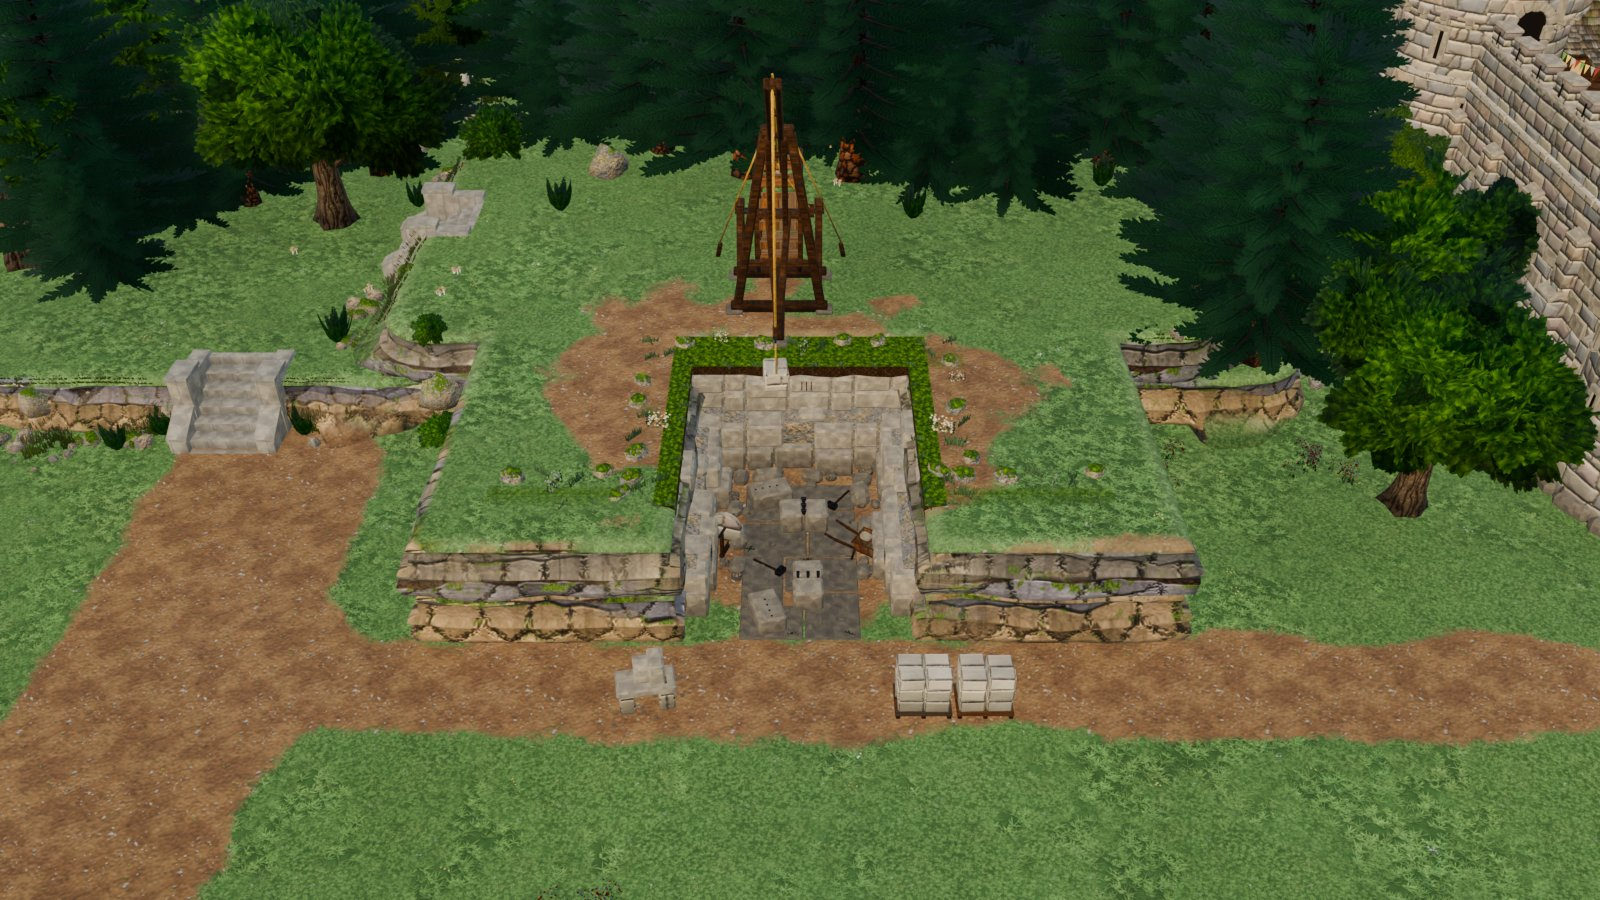
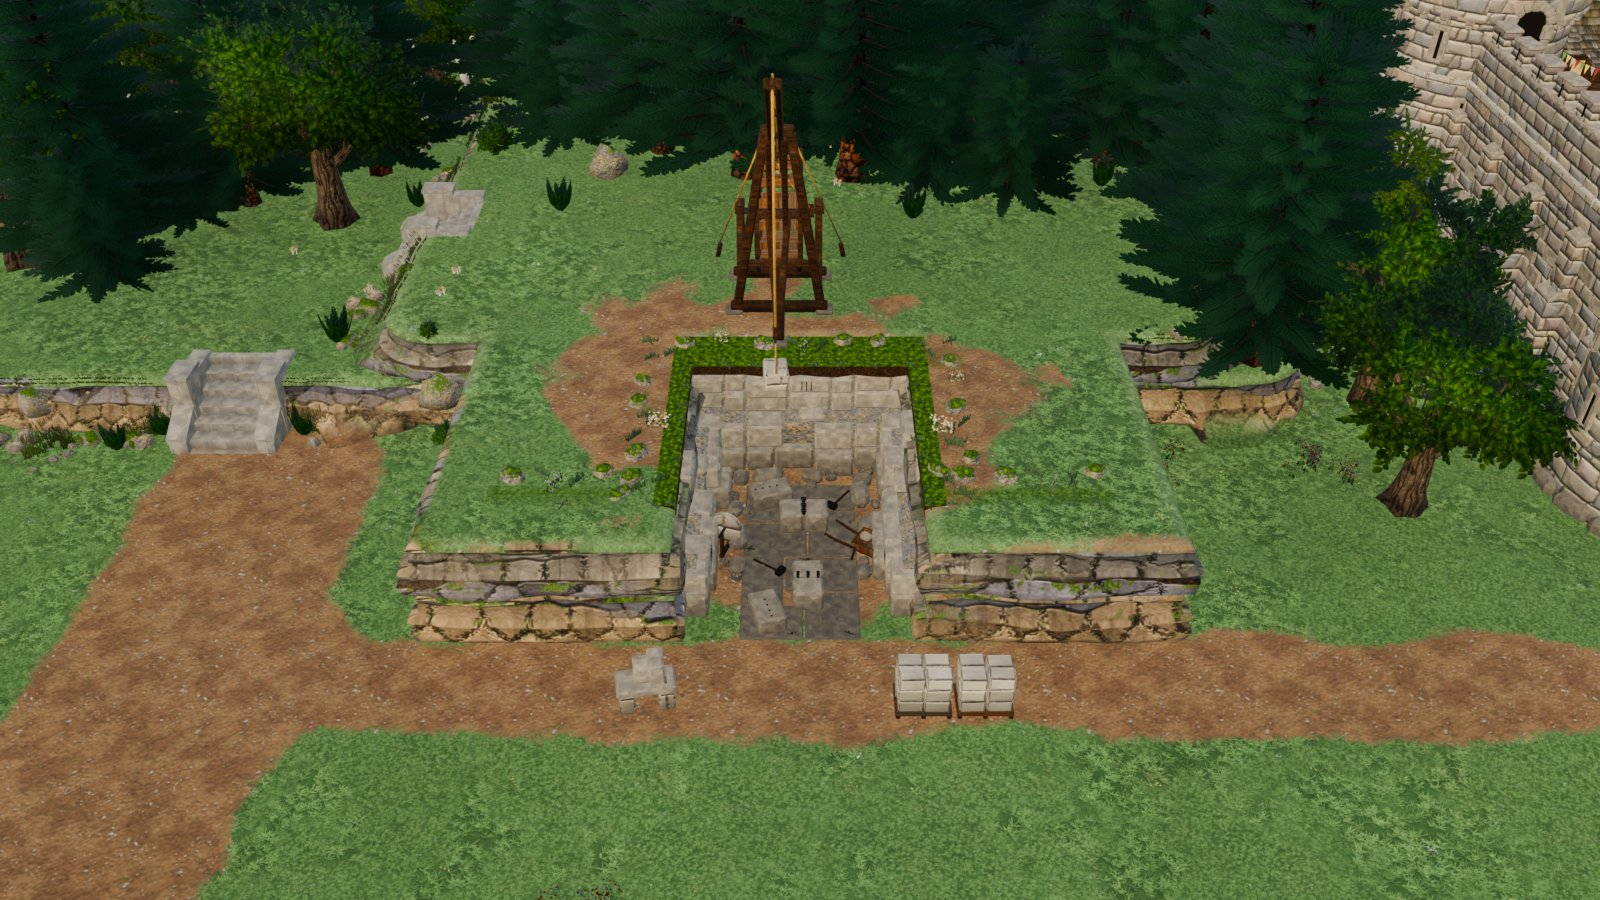
Broadleaf sprigs grow out of the wood; gallery re-rendered
Leaf sprigs hang off bark twigs from the nearest branch instead of floating in clump
spheres; bushes get woody stems. New sprig atlas cells (broadleaf_b replaces the dark cell).

diff --git a/src/nature/vk_nature.py b/src/nature/vk_nature.py
@@ -1,9 +1,13 @@
 from mathutils import Quaternion
 
 # =====================  NATURE KIT  =====================
-LEAF_CELLS=["broadleaf","broadleaf_dark","autumn_orange","autumn_red","birch","pine","willow","fern",
+LEAF_CELLS=["broadleaf","broadleaf_b","autumn_orange","autumn_red","birch","pine","willow","fern",
             "berry","blossom","apple","hydrangea","reeds","tallgrass","wildflowers","deadtwigs"]
 UP=Vector((0,0,1)); GOLD=2.39996
+# sprig cells (one twig with separate leaves in the middle of the cell, as the hero oak's): cards using them are narrow
+# and map only the cell's middle band. Keep in sync with vk_leafgen.SPRIG_CELLS / SPRIG_ASPECT.
+SPRIG_CELLS=("broadleaf","broadleaf_b","autumn_orange","autumn_red","birch","apple","berry")
+SPRIG_ASPECT=0.52
 def leaf_uv(cell,m=0.004):
     i=LEAF_CELLS.index(cell); cx=i%4; cy=i//4
     return cx*0.25+m,(cx+1)*0.25-m,1-(cy+1)*0.25+m,1-cy*0.25-m
@@ -13,6 +17,8 @@ class NK(Kit):
     def lcard(s,base,right,up,w,h,cell,flip=False,bend=0.0,arch=0.0,rows=2,cols=2,nfn=None,aofn=None,anchor="bottom",vr=None):
         u0,u1,v0,v1=leaf_uv(cell)
         if vr: v0,v1=v0+(v1-v0)*vr[0],v0+(v1-v0)*vr[1]      # use only a vertical band of the cell (0=bottom)
+        if cell in SPRIG_CELLS:                                   # a sprig: narrow card on the cell's middle band
+            w=h*SPRIG_ASPECT; um=(u0+u1)/2; hw=(u1-u0)*SPRIG_ASPECT/2; u0,u1=um-hw,um+hw
         if flip: u0,u1=u1,u0
         B=Vector(base); R=Vector(right).normalized(); U=Vector(up).normalized(); N=R.cross(U).normalized()
         if anchor=="top": B=B-U*h
@@ -164,6 +170,97 @@ def clump_cards(k,c,r,n,cells,rng,C,ext,size=(0.9,1.3),shell=(0.15,0.85),wc=0.35
         if right.length<1e-3: right=up.cross(Vector((1,0,0)))
         sz=rng.uniform(*size); cell=rng.choices(names,wts)[0]
         k.lcard(base,right.normalized(),up,sz*0.95,sz,cell,flip=rng.random()<0.5,bend=0.08,nfn=nfn,aofn=aofn)
+class Anchors:
+    """points of the rendered branch skeleton (the same cut / rscale as bark_tubes), for growing twigs off the wood.
+    find(p) -> (point on a branch axis, branch radius there, branch tangent)"""
+    def __init__(s,B,min_depth=1,cut=None,rscale=None,step=0.1):
+        from mathutils.kdtree import KDTree
+        pick=lambda t,d: None if t is None else t[min(d,len(t)-1)]
+        s.P=[]
+        for b in B:
+            d=b["depth"]
+            if d<min_depth: continue
+            c=pick(cut,d); rs=pick(rscale,d) or 1.0
+            bb=cut_branch(b,c) if (c is not None and c<0.999) else b
+            P=bb["pts"]; R=bb["rad"]
+            for i in range(len(P)-1):
+                seg=P[i+1]-P[i]; L=seg.length
+                if L<1e-6: continue
+                n=max(1,int(math.ceil(L/step)))
+                for j in range(n):
+                    a=j/n; s.P.append((P[i].lerp(P[i+1],a),(R[i]*(1-a)+R[i+1]*a)*rs,seg/L))
+            if len(P)>=2: s.P.append((P[-1].copy(),R[-1]*rs,(P[-1]-P[-2]).normalized()))
+        s.kd=KDTree(len(s.P))
+        for i,(q,r,t) in enumerate(s.P): s.kd.insert(q,i)
+        s.kd.balance()
+    def find(s,p):
+        co,i,dist=s.kd.find(p); return s.P[i]
+def _perp(v):
+    a=Vector((0,0,1)) if abs(v.z)<0.9 else Vector((1,0,0))
+    return v.cross(a).normalized()
+def twig_tube(k,a,b,ra,rb,mi,vfn,droop=0.04):
+    """thin twig from a (inside the branch) to b; 4 sides, open ends (the base sits in the wood, the tip under a sprig's
+    painted stem); vfn(p) -> (AO, wind) for its vertex colour"""
+    L=(b-a).length
+    if L<0.02: return
+    pts=[a,b] if L<0.45 else [a,a.lerp(b,0.5)-UP*droop*L,b]
+    rad=[ra,rb] if len(pts)==2 else [ra,(ra+rb)*0.5,rb]
+    n0=len(k.bm.verts)
+    k.tube(pts,rad,4,mi,tileU=0.3,tileV=0.6,cap_end=False,noise_amp=0.0)
+    k.bm.verts.ensure_lookup_table()
+    for i in range(n0,len(k.bm.verts)): k.vinfo[k.bm.verts[i]]=vfn
+def sprig_foliage(k,A,clumps,per_clump,cells,rng,C,ext,size=(0.9,1.3),shell=(0.6,1.0),wc=0.35,ao_lo=0.56,per_twig=3,
+                  tilt=(35,60),droop=0.0,twig_r=(0.02,0.008),max_twig=1.2,twig_mi=BARK_OAK,skip_down=-0.6,side_at=(0.85,0.55)):
+    """Leaf sprigs that grow out of the wood: every card's painted stem starts on a twig or a branch.
+    Per clump, twig targets P spread over the clump's shell (outward-biased, like clump_cards). A twig runs from the
+    nearest point of the branch skeleton A to where the leaves around P start and carries per_twig sprigs: one at its
+    tip, the rest fanned along its outer part. A sprig points outward, tilted `tilt` degrees off the canopy normal (so
+    it is never seen tip-on from outside) with its face turned outward; `droop` hangs it toward the ground (birch), a
+    negative droop stands it up (hydrangea flower heads). side_at: where the side sprigs sit along the twig (tip=1).
+    A target the branch already reaches gets its sprigs straight on the branch, no twig."""
+    names=[x[0] for x in cells]; wts=[x[1] for x in cells]
+    for (c,r) in clumps:
+        nfn,aofn=canopy_fns(C,ext,c,wc,ao_lo)
+        def bark_ao(p,aofn=aofn): return (0.8*aofn(p)[0], k.wind_fn(p) if k.wind_fn else 1.0)
+        q_=c-C; out=Vector((q_.x/ext.x,q_.y/ext.y,q_.z/ext.z))
+        out=out.normalized() if out.length>1e-6 else Vector((0,0,1))
+        nt=max(1,int(round(per_clump/per_twig)))
+        for i in range(nt):
+            zf=1-2*(i+0.5)/nt; az=i*GOLD+rng.uniform(-0.3,0.3); s_=math.sqrt(max(0.0,1-zf*zf))
+            d=(Vector((s_*math.cos(az),s_*math.sin(az),zf))+out*0.6).normalized()
+            if d.z<skip_down and rng.random()<0.6: continue
+            P=c+d*r*rng.uniform(*shell)
+            sz=rng.uniform(*size)
+            th=math.radians(rng.uniform(*tilt)); tv=Quaternion(d,rng.uniform(0,6.283))@_perp(d)
+            U=d*math.cos(th)+tv*math.sin(th)
+            if droop: U=U-UP*droop
+            U.normalize()
+            ap,ar,at=A.find(P)
+            T=P-U*(sz*0.5)
+            v=T-ap; L=v.length
+            has_twig=L>0.12 and v.dot(d)>0.0
+            if has_twig:
+                if L>max_twig: T=ap+v*(max_twig/L); L=max_twig
+                vd=v.normalized()
+                U=(U+vd*0.6).normalized()                        # the tip sprig carries on from the twig
+                twig_tube(k,ap,T,min(twig_r[0],ar*0.75),twig_r[1],twig_mi,bark_ao)
+                bases=[T]+[ap.lerp(T,side_at[0]+(side_at[1]-side_at[0])*j/max(1,per_twig-2)) for j in range(per_twig-1)]
+            else:
+                w_=(P-ap); w_=w_.normalized() if w_.length>1e-6 else d
+                T=ap+w_*ar*0.6                                   # on the branch surface
+                bases=[T]*per_twig
+            for j,base in enumerate(bases):
+                Uj=U; sj=sz
+                if j:                                            # side sprigs fan out in the card plane, alternating
+                    R0=U.cross(d); R0=R0.normalized() if R0.length>1e-3 else _perp(U); N0=R0.cross(U)
+                    Uj=(Quaternion(N0,(1 if j%2 else -1)*rng.uniform(0.5,0.85))@U+Vector((rng.uniform(-.15,.15),rng.uniform(-.15,.15),rng.uniform(-.15,.15)))).normalized()
+                    sj=sz*rng.uniform(0.72,0.9)
+                R=Uj.cross(d)
+                R=R.normalized() if R.length>1e-3 else _perp(Uj)
+                R=Quaternion(Uj,rng.uniform(-0.45,0.45))@R       # face outward, some roll
+                cell=rng.choices(names,wts)[0]
+                k.lcard(base-Uj*(sj*0.012),R,Uj,sj*0.95,sj,cell,flip=rng.random()<0.5,arch=rng.uniform(-0.06,0.06),
+                        rows=2,cols=1,nfn=nfn,aofn=aofn)
 def nk_finish(k,name,coll,sharp=None,bark_ao=(0.62,0.8),moss_alpha=1.0,wind_H=8.0):
     bm=k.bm; bm.normal_update()
     for f in bm.faces:
@@ -282,7 +379,7 @@ def make_broad_tree(k,seed,cells,bark=BARK_OAK,trunkH=3.2,spread=1.0,cards=36,si
     k.wind_fn=tree_wind(H+1.5)
     bark_tubes(k,B,bark,flare=root_flare())
     cl=broad_clumps(limbs,subs,rng,clump_scale); C,ext=canopy_bounds(cl)
-    for (c,r) in cl: clump_cards(k,c,r,cards,cells,rng,C,ext,size=size)
+    sprig_foliage(k,Anchors(B,1),cl,cards,cells,rng,C,ext,size=size)
     return B
 
 def make_pine(k,seed,H=10.0,Rmax_f=0.30,cards_step=0.42,size=(1.35,1.85),young=False):
@@ -375,7 +472,8 @@ def make_birch(k,seed,H=8.5,stems=2):
     bark_tubes(k,B,(BARK_BIRCH,BARK_OAK),segs=(10,4,4,4),flare=root_flare(4,0.3,0.3,0.12),tile=1.0,
                cut=(0.86,0.8),rscale=(1.0,0.7),ao=(stem_ao,0.8))
     C,ext=canopy_bounds(clumps)
-    for (c,r) in clumps: clump_cards(k,c,r,11,[("birch",1.0)],rng,C,ext,size=(0.7,1.0),shell=(0.1,0.8),ao_lo=0.72)
+    sprig_foliage(k,Anchors(B,1,cut=(0.86,0.8),rscale=(1.0,0.7)),clumps,11,[("birch",1.0)],rng,C,ext,size=(0.7,1.0),
+                  shell=(0.4,0.95),ao_lo=0.72,tilt=(30,55),droop=0.45,twig_r=(0.012,0.006),max_twig=0.8)
     return B
 def make_willow(k,seed,H=3.0,R=3.9,Rz=2.3):
     rng=random.Random(seed); B=[]
@@ -506,7 +604,7 @@ def make_fruit(k,seed,cells,spread=1.0,cards=34,size=(0.85,1.2)):
     for c in cl:
         if all((c[0]-o[0]).length>0.3*(c[1]+o[1]) for o in out): out.append(c)
     C,ext=canopy_bounds(out)
-    for (c,r) in out: clump_cards(k,c,r,cards//2,cells,rng,C,ext,size=size,ao_lo=0.64)
+    sprig_foliage(k,Anchors(B,1),out,cards//2,cells,rng,C,ext,size=size,ao_lo=0.64,twig_r=(0.016,0.007),max_twig=1.0)
     return B
 def make_dead(k,seed):
     rng=random.Random(seed)
@@ -541,7 +639,7 @@ def make_sapling(k,seed):
     k.wind_fn=tree_wind(3.5)
     bark_tubes(k,B,BARK_OAK,segs=(6,4,4,4),flare=None)
     C,ext=canopy_bounds(cl)
-    for (c,r) in cl: clump_cards(k,c,r,12,[("broadleaf",1.0)],rng,C,ext,size=(0.55,0.8),ao_lo=0.65)
+    sprig_foliage(k,Anchors(B,0),cl,12,[("broadleaf",1.0)],rng,C,ext,size=(0.55,0.8),ao_lo=0.65,twig_r=(0.01,0.005),max_twig=0.5)
     # support stake + ties
     k.box((0.14,0.0,0.7),(0.05,0.05,1.6),WOOD,bevel=0.01)
     for z in (0.5,1.2): k.box((0.07,0,z),(0.16,0.04,0.04),BURLAP,bevel=0.01)
@@ -556,16 +654,22 @@ def plant_fns(center=Vector((0,0,0)),H=1.0,ao_lo=0.76,radw=0.45):
     def aofn(p):
         t=max(0.0,min(1.0,(p.z-center.z)/H)); return ao_lo+(1-ao_lo)*t, min(1.0,0.2+0.8*t)
     return nfn,aofn
-def make_bush(k,seed,cells,R=0.9,H=1.1,nclump=4,cards=22,size=(0.6,0.9)):
+def make_bush(k,seed,cells,R=0.9,H=1.1,nclump=4,cards=22,size=(0.6,0.9),shell=(0.7,1.0),tilt=(50,75),droop=0.0):
+    """woody stems from the root crown to each leaf clump (dark bark, seen through the gaps); every sprig grows out of
+    a stem or a twig off it (sprig_foliage)"""
     rng=random.Random(seed); cl=[]
     for i in range(nclump):
         a=i*GOLD+rng.uniform(-0.4,0.4); d=rng.uniform(0.15,0.5)*R if i else 0.0
         c=Vector((math.cos(a)*d,math.sin(a)*d,H*rng.uniform(0.45,0.6))); cl.append((c,rng.uniform(0.55,0.75)*R))
-    for i in range(3):
-        a=rng.uniform(0,6.28); k.tube([Vector((0,0,-0.1)),Vector((math.cos(a)*0.2,math.sin(a)*0.2,0.45))],[0.05,0.025],5,WOOD,cap_end=True)
+    B=[]
+    for j,(c,r) in enumerate(cl):
+        base=Vector((rng.uniform(-0.07,0.07),rng.uniform(-0.07,0.07),-0.08)); v=c-base
+        B.append(grow(base,v,v.length,0.032,0.012,1,rng,up=0.02,wig=0.12,step=0.2,taper=0.8,seed=seed*7+j))
     C,ext=canopy_bounds(cl); ext.z=max(ext.z,H*0.6)
     k.wind_fn=lambda p: min(1.0,max(0.0,p.z/H))
-    for (c,r) in cl: clump_cards(k,c,r,cards,cells,rng,C,ext,size=size,shell=(0.2,0.9),ao_lo=0.62)
+    bark_tubes(k,B,BARK_OAK,segs=(5,5,4,4),ao=(lambda p: 0.5+0.25*min(1.0,max(0.0,p.z)/H),))
+    sprig_foliage(k,Anchors(B,1),cl,cards,cells,rng,C,ext,size=size,shell=shell,ao_lo=0.62,tilt=tilt,droop=droop,
+                  twig_r=(0.012,0.005),max_twig=0.6,side_at=(0.92,0.72))
 def make_fern(k,seed,n=11,Hs=(0.9,1.3),c=(0,0,0)):
     rng=random.Random(seed); C0=Vector(c); nfn,aofn=plant_fns(center=C0,H=1.0,ao_lo=0.72,radw=0.6)
     for i in range(n):
@@ -933,9 +1037,9 @@ def dress_town_nature(coll,C=(200.0,0.0),seed=2029):
 # rebuild_nature({"SM_VK_..."}) -- masters are rebuilt in place, so every placed instance updates.
 _R40=math.radians(40)
 NATURE_SPECS=[
- # broadleaf trees (dense card canopies, no core blobs: clump_cards(core=False, tangent=False))
- ("SM_VK_Tree_Oak_A",lambda k: make_broad_tree(k,11,[("broadleaf",0.75),("broadleaf_dark",0.25)],cards=54,size=(0.95,1.35)),{}),
- ("SM_VK_Tree_Oak_B",lambda k: make_broad_tree(k,17,[("broadleaf",0.6),("broadleaf_dark",0.4)],trunkH=3.8,spread=0.85,cards=52,size=(0.95,1.35)),{}),
+ # broadleaf trees and bushes: sprig cards grown out of the wood (sprig_foliage); every stem starts on a twig or branch
+ ("SM_VK_Tree_Oak_A",lambda k: make_broad_tree(k,11,[("broadleaf",0.75),("broadleaf_b",0.25)],cards=54,size=(0.95,1.35)),{}),
+ ("SM_VK_Tree_Oak_B",lambda k: make_broad_tree(k,17,[("broadleaf",0.6),("broadleaf_b",0.4)],trunkH=3.8,spread=0.85,cards=52,size=(0.95,1.35)),{}),
  ("SM_VK_Tree_Oak_Autumn",lambda k: make_broad_tree(k,13,[("autumn_orange",0.55),("autumn_red",0.3),("broadleaf",0.15)],cards=52,size=(0.95,1.35)),{}),
  ("SM_VK_Tree_Apple",lambda k: make_fruit(k,61,[("apple",0.55),("broadleaf",0.45)],cards=56,size=(0.75,1.05)),{}),
  ("SM_VK_Tree_Blossom",lambda k: make_fruit(k,67,[("blossom",1.0)],spread=1.1,cards=76,size=(0.6,0.85)),{}),
@@ -948,11 +1052,11 @@ NATURE_SPECS=[
  ("SM_VK_Tree_Dead",lambda k: make_dead(k,71),{}),
  ("SM_VK_Tree_Sapling",lambda k: make_sapling(k,81),{}),
  # bushes and plants
- ("SM_VK_Bush_Round",lambda k: make_bush(k,101,[("broadleaf",1.0)]),{}),
- ("SM_VK_Bush_Large",lambda k: make_bush(k,103,[("broadleaf",1.0)],R=1.5,H=1.8,nclump=6,cards=24,size=(0.8,1.15)),{}),
- ("SM_VK_Bush_Berry",lambda k: make_bush(k,105,[("berry",0.75),("broadleaf",0.25)]),{}),
- ("SM_VK_Bush_Hydrangea",lambda k: make_bush(k,107,[("hydrangea",0.75),("broadleaf",0.25)],R=1.0,H=1.2),{}),
- ("SM_VK_Bush_Autumn",lambda k: make_bush(k,109,[("autumn_orange",0.5),("autumn_red",0.5)]),{}),
+ ("SM_VK_Bush_Round",lambda k: make_bush(k,101,[("broadleaf",0.6),("broadleaf_b",0.4)],R=0.62,H=0.95,cards=54,size=(0.44,0.6)),{}),
+ ("SM_VK_Bush_Large",lambda k: make_bush(k,103,[("broadleaf",0.6),("broadleaf_b",0.4)],R=1.3,H=1.6,nclump=6,cards=45,size=(0.58,0.8)),{}),
+ ("SM_VK_Bush_Berry",lambda k: make_bush(k,105,[("berry",0.75),("broadleaf",0.25)],R=0.66,H=0.9,cards=54,size=(0.44,0.6)),{}),
+ ("SM_VK_Bush_Hydrangea",lambda k: make_bush(k,107,[("hydrangea",0.75),("broadleaf",0.25)],R=1.0,H=1.2,cards=30,tilt=(15,40),droop=-0.9),{}),
+ ("SM_VK_Bush_Autumn",lambda k: make_bush(k,109,[("autumn_orange",0.5),("autumn_red",0.5)],R=0.72,H=1.0,cards=54,size=(0.46,0.62)),{}),
  ("SM_VK_Plant_Fern",lambda k: make_fern(k,111),{"bark_ao":None}),
  ("SM_VK_Plant_Reeds",lambda k: make_tufts(k,113,"reeds",n=10,R=0.7,Hs=(1.3,1.9),W=0.7),{"bark_ao":None}),
  ("SM_VK_Plant_TallGrass",lambda k: make_tufts(k,115,"tallgrass",n=10,R=0.7,Hs=(0.7,1.1),W=0.9),{"bark_ao":None}),

diff --git a/src/textures/vk_leafgen.py b/src/textures/vk_leafgen.py
@@ -1,5 +1,5 @@
 
-LEAF_CELLS=["broadleaf","broadleaf_dark","autumn_orange","autumn_red",
+LEAF_CELLS=["broadleaf","broadleaf_b","autumn_orange","autumn_red",
             "birch","pine","willow","fern",
             "berry","blossom","apple","hydrangea",
             "reeds","tallgrass","wildflowers","deadtwigs"]
@@ -392,6 +392,83 @@ def cell_deadtwigs(P,rng):
                 rec(bx,by,a+(1 if kk%2==0 else -1)*rng.uniform(0.35,0.8),L*rng.uniform(0.5,0.72),w*0.62,d+1)
     for a0 in (-math.pi/2-0.5,-math.pi/2,-math.pi/2+0.5):
         rec(cx+rng.uniform(-10,10),B[3]-4,a0+rng.uniform(-0.1,0.1),(B[3]-B[1])*rng.uniform(0.45,0.6),11,0)
+# ---- sprig cells: one twig with separate leaves (the hero oak's look), centred in the cell, the sides transparent.
+# Cards using them are narrow (SPRIG_ASPECT) and map only the cell's middle band (vk_nature.lcard).
+SPRIG_CELLS=("broadleaf","broadleaf_b","autumn_orange","autumn_red","birch","apple","berry")
+SPRIG_ASPECT=0.52                        # card width / height; the cell's used band is u 0.5 +- SPRIG_ASPECT/2
+def sprig(P,B,rng,pal,kind=0,n=11,Lr=(0.21,0.26),Wr=(0.34,0.40),curve=0.18,fork=0,stem=(0.30,0.20,0.11),lean=0.0,step=None,spread=(1.1,1.35)):
+    """one sprig: a curved stem from the bottom middle to near the top, leaves alternating left and right up it (the
+    lowest shortest, angled up), a terminal leaf; fork>0 adds side twigs with their own leaves. Sizes are fractions
+    of the cell height. Returns the node list (x, y, angle, is_tip)."""
+    cx=(B[0]+B[2])/2; bot=B[3]-6; H=B[3]-B[1]; half=H*SPRIG_ASPECT/2-6
+    Bb=(cx-half,B[1],cx+half,B[3])                     # the band the card maps
+    Ls=H*0.86; m=24; pts=[]; a=-math.pi/2+lean; x,y=cx,bot; c0=rng.uniform(-curve,curve)
+    for i in range(m+1):
+        pts.append((x,y)); t=i/m
+        a+=c0*(1-t)*0.35/m*6+rng.uniform(-0.02,0.02)
+        x+=math.cos(a)*Ls/m; y+=math.sin(a)*Ls/m
+        x=min(max(x,cx-half*0.45),cx+half*0.45)
+    P.poly(B,pts,H*0.016,H*0.005,stem,0.4)
+    nodes=[]; nn=n
+    for j in range(nn):
+        t=0.1+0.8*j/(nn-1); i=int(t*m); (xa,ya),(xb,yb)=pts[i],pts[min(i+1,m)]
+        nodes.append((xb,yb,math.atan2(yb-ya,xb-xa),(-1)**j,t))
+    for f in range(fork):
+        t=rng.uniform(0.35,0.55)+0.2*f; i=int(t*m); bx,by=pts[i]; sd=1 if (f+int(rng.integers(0,2)))%2 else -1
+        a2=math.atan2(pts[i+1][1]-by,pts[i+1][0]-bx)+sd*rng.uniform(0.55,0.75); L2=Ls*rng.uniform(0.34,0.42); q=[(bx,by)]
+        for s in range(8):
+            a2+=rng.uniform(-0.05,0.05); q.append((q[-1][0]+math.cos(a2)*L2/8,q[-1][1]+math.sin(a2)*L2/8))
+        P.poly(B,q,H*0.009,H*0.004,stem,0.4)
+        for s in (3,5,7): nodes.append((q[s][0],q[s][1],a2,(-1)**s,0.45+0.1*s))
+    tipx,tipy=pts[-1]; nodes.append((tipx,tipy,math.atan2(tipy-pts[-2][1],tipx-pts[-2][0]),0,1.0))
+    order=list(range(len(nodes))); rng.shuffle(order)
+    for k_ in order:
+        x,y,a,sd,t=nodes[k_]
+        L=H*rng.uniform(*Lr)*(0.8+0.3*t)*(0.9 if sd==0 else 1.0)
+        aa=a if sd==0 else a+sd*rng.uniform(*spread)*(1.0-0.15*t)
+        W=L*rng.uniform(*Wr)
+        col=np.array(pal[rng.integers(0,len(pal))],f32)*rng.uniform(0.9,1.1)
+        Lf=P.fitL(Bb,x,y,aa,L,W)                                 # keep the leaf inside the card's band
+        if Lf<H*0.08: continue
+        if Lf<L: W=W*(0.6+0.4*Lf/L); L=Lf
+        P.leaf(B,x,y,aa,L,W,col,kind=kind,bend=rng.uniform(-0.12,0.12),side=sd or 1,fit=False)
+    return nodes
+_NULL_IMG=[]        # scratch image for painters that write pixels directly (cell_apple's blush)
+def _burn(fn):
+    """run an old cell painter for its random draws only (drawing is a no-op), so the atlas' shared rng stays in step
+    and every later cell replays exactly as before"""
+    class _Null(Painter):
+        def __init__(s):
+            s.S=AT
+            if not _NULL_IMG: _NULL_IMG.append(np.zeros((AT,AT,3),f32))
+            s.img=_NULL_IMG[0]
+        def seg(s,*a,**k): pass
+        def leaf(s,*a,**k): pass
+        def disc(s,*a,**k): pass
+        def flower(s,*a,**k): pass
+        def put(s,*a,**k): pass
+    fn(_Null())
+def paint_sprigs(P):
+    """the sprig cells, each from its own rng (independent of the shared one)"""
+    R=lambda s: np.random.default_rng(1000+s)
+    green=[(0.30,0.55,0.13),(0.38,0.63,0.16),(0.46,0.70,0.20),(0.25,0.48,0.11),(0.55,0.76,0.24)]
+    green_b=[(0.24,0.49,0.12),(0.31,0.57,0.14),(0.40,0.65,0.18),(0.20,0.43,0.10),(0.48,0.70,0.21)]
+    aor=[(0.86,0.46,0.08),(0.95,0.62,0.12),(0.78,0.32,0.06),(0.92,0.74,0.20),(0.70,0.40,0.08)]
+    ard=[(0.72,0.14,0.07),(0.86,0.26,0.08),(0.58,0.10,0.07),(0.90,0.46,0.10),(0.80,0.20,0.10)]
+    birch=[(0.52,0.70,0.18),(0.62,0.76,0.23),(0.44,0.63,0.14),(0.70,0.80,0.30)]
+    sprig(P,cell_bounds("broadleaf"),R(1),green)
+    sprig(P,cell_bounds("broadleaf_b"),R(2),green_b,n=10,fork=1,lean=0.08)
+    sprig(P,cell_bounds("autumn_orange"),R(3),aor,kind=1,n=10,Wr=(0.42,0.5))
+    sprig(P,cell_bounds("autumn_red"),R(4),ard,kind=1,n=10,Wr=(0.42,0.5),fork=1)
+    sprig(P,cell_bounds("birch"),R(5),birch,n=15,Lr=(0.12,0.15),Wr=(0.5,0.62),curve=0.3,fork=2,stem=(0.36,0.30,0.24))
+    rng=R(6); B=cell_bounds("apple"); nodes=sprig(P,B,rng,green,n=10)
+    for (x,y,a,sd,t) in [nodes[i] for i in (2,5)]:                     # two apples hanging from the nodes
+        r=(B[3]-B[1])*0.052; ax=x+sd*r*0.6; ay=y+r*1.25
+        P.seg(B,x,y,ax,ay-r*0.8,3,(0.28,0.2,0.1)); P.disc(B,ax,ay,r,(0.80,0.12,0.08),0.9)
+    rng=R(7); B=cell_bounds("berry"); nodes=sprig(P,B,rng,[(0.16,0.40,0.12),(0.21,0.46,0.14),(0.26,0.52,0.17)],n=10)
+    for (x,y,a,sd,t) in [nodes[i] for i in (1,3,5,7)]:                 # berry clusters at alternate nodes
+        for j in range(int(rng.integers(4,7))):
+            P.disc(B,x+rng.uniform(-16,16),y+rng.uniform(-6,20),rng.uniform(8,11),(0.80,0.07,0.10) if rng.random()<0.75 else (0.52,0.04,0.12),0.8)
 def paint_leaf_atlas(seed=301):
     P=Painter(AT); rng=np.random.default_rng(seed)
     broad=[(0.26,0.53,0.12),(0.34,0.61,0.15),(0.43,0.68,0.19),(0.21,0.46,0.10),(0.50,0.72,0.22)]
@@ -399,16 +476,20 @@ def paint_leaf_atlas(seed=301):
     aor=[(0.86,0.46,0.08),(0.95,0.62,0.12),(0.78,0.32,0.06),(0.92,0.74,0.20),(0.70,0.40,0.08)]
     ard=[(0.72,0.14,0.07),(0.86,0.26,0.08),(0.58,0.10,0.07),(0.90,0.46,0.10),(0.80,0.20,0.10)]
     birch=[(0.52,0.70,0.18),(0.62,0.76,0.23),(0.44,0.63,0.14),(0.70,0.80,0.30)]
-    cell_broad(P,"broadleaf",rng,broad,kind=0,dens=0.72,Lr=(95,135),nt=3,spread=0.75,Lf=(0.5,0.7))
-    cell_broad(P,"broadleaf_dark",rng,dark,kind=0,dens=0.95,Lr=(85,120),nt=4,spread=0.9)
-    cell_broad(P,"autumn_orange",rng,aor,kind=1,dens=0.75,Lr=(95,130),Wr=(0.36,0.44),nt=3,spread=0.75,Lf=(0.5,0.7))
-    cell_broad(P,"autumn_red",rng,ard,kind=1,dens=0.75,Lr=(95,130),Wr=(0.36,0.44),nt=3,spread=0.75,Lf=(0.5,0.7))
-    Bb=cell_bounds("birch")
-    ptsb=fan_twigs(P,Bb,rng,nt=5,spread=1.15,Lf=(0.4,0.55),w=4,stem=(0.36,0.30,0.24),maxd=2,leaf_step=15,kid_ang=(0.7,1.3),kid_len=(0.5,0.75),curl=0.14)
-    draw_leaves(P,Bb,rng,ptsb,birch,kind=0,Lr=(36,50),Wr=(0.45,0.58),ang_off=(0.7,1.3))
+    # the dense twig-bunch versions of the sprig cells only consume their draws now (see _burn / paint_sprigs)
+    _burn(lambda Q: cell_broad(Q,"broadleaf",rng,broad,kind=0,dens=0.72,Lr=(95,135),nt=3,spread=0.75,Lf=(0.5,0.7)))
+    _burn(lambda Q: cell_broad(Q,"broadleaf_b",rng,dark,kind=0,dens=0.95,Lr=(85,120),nt=4,spread=0.9))
+    _burn(lambda Q: cell_broad(Q,"autumn_orange",rng,aor,kind=1,dens=0.75,Lr=(95,130),Wr=(0.36,0.44),nt=3,spread=0.75,Lf=(0.5,0.7)))
+    _burn(lambda Q: cell_broad(Q,"autumn_red",rng,ard,kind=1,dens=0.75,Lr=(95,130),Wr=(0.36,0.44),nt=3,spread=0.75,Lf=(0.5,0.7)))
+    def _birch(Q):
+        Bb=cell_bounds("birch")
+        ptsb=fan_twigs(Q,Bb,rng,nt=5,spread=1.15,Lf=(0.4,0.55),w=4,stem=(0.36,0.30,0.24),maxd=2,leaf_step=15,kid_ang=(0.7,1.3),kid_len=(0.5,0.75),curl=0.14)
+        draw_leaves(Q,Bb,rng,ptsb,birch,kind=0,Lr=(36,50),Wr=(0.45,0.58),ang_off=(0.7,1.3))
+    _burn(_birch)
     cell_pine(P,rng); cell_willow(P,rng); cell_fern(P,rng)
-    cell_berry(P,rng); cell_blossom(P,rng); cell_apple(P,rng); cell_hydrangea(P,rng)
+    _burn(lambda Q: cell_berry(Q,rng)); cell_blossom(P,rng); _burn(lambda Q: cell_apple(Q,rng)); cell_hydrangea(P,rng)
     cell_reeds(P,rng); cell_tallgrass(P,rng); cell_wildflowers(P,rng); cell_deadtwigs(P,rng)
+    paint_sprigs(P)
     return P
 def repaint_leaf_cell(cell,seed=301,name="T_VK_Leaves",dry=False,save=True,inset=5,height=False):
     # Re-paint ONE atlas cell in place. The atlas shares one rng across all cells and rng use does not depend on
